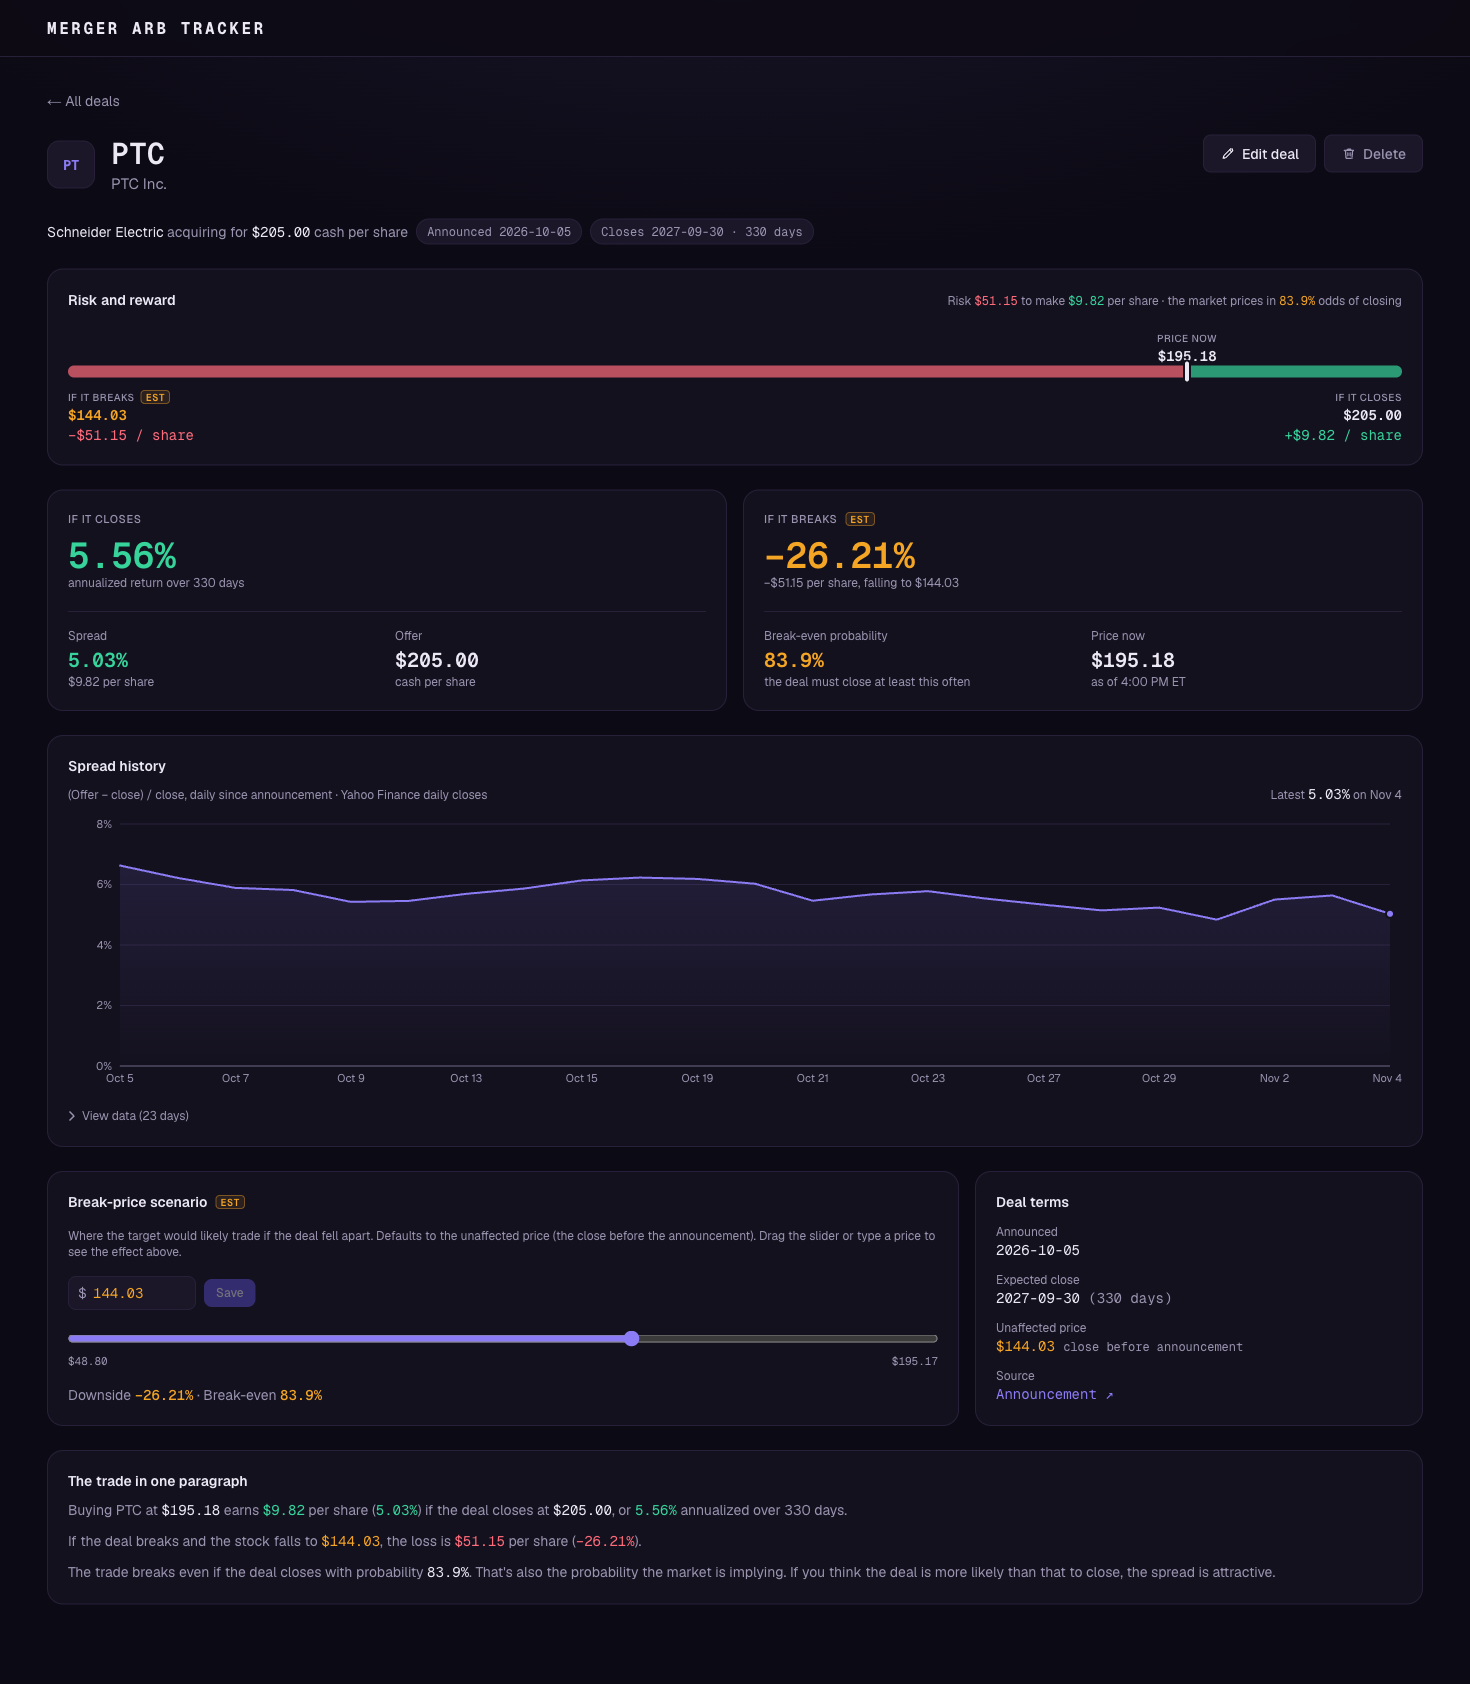
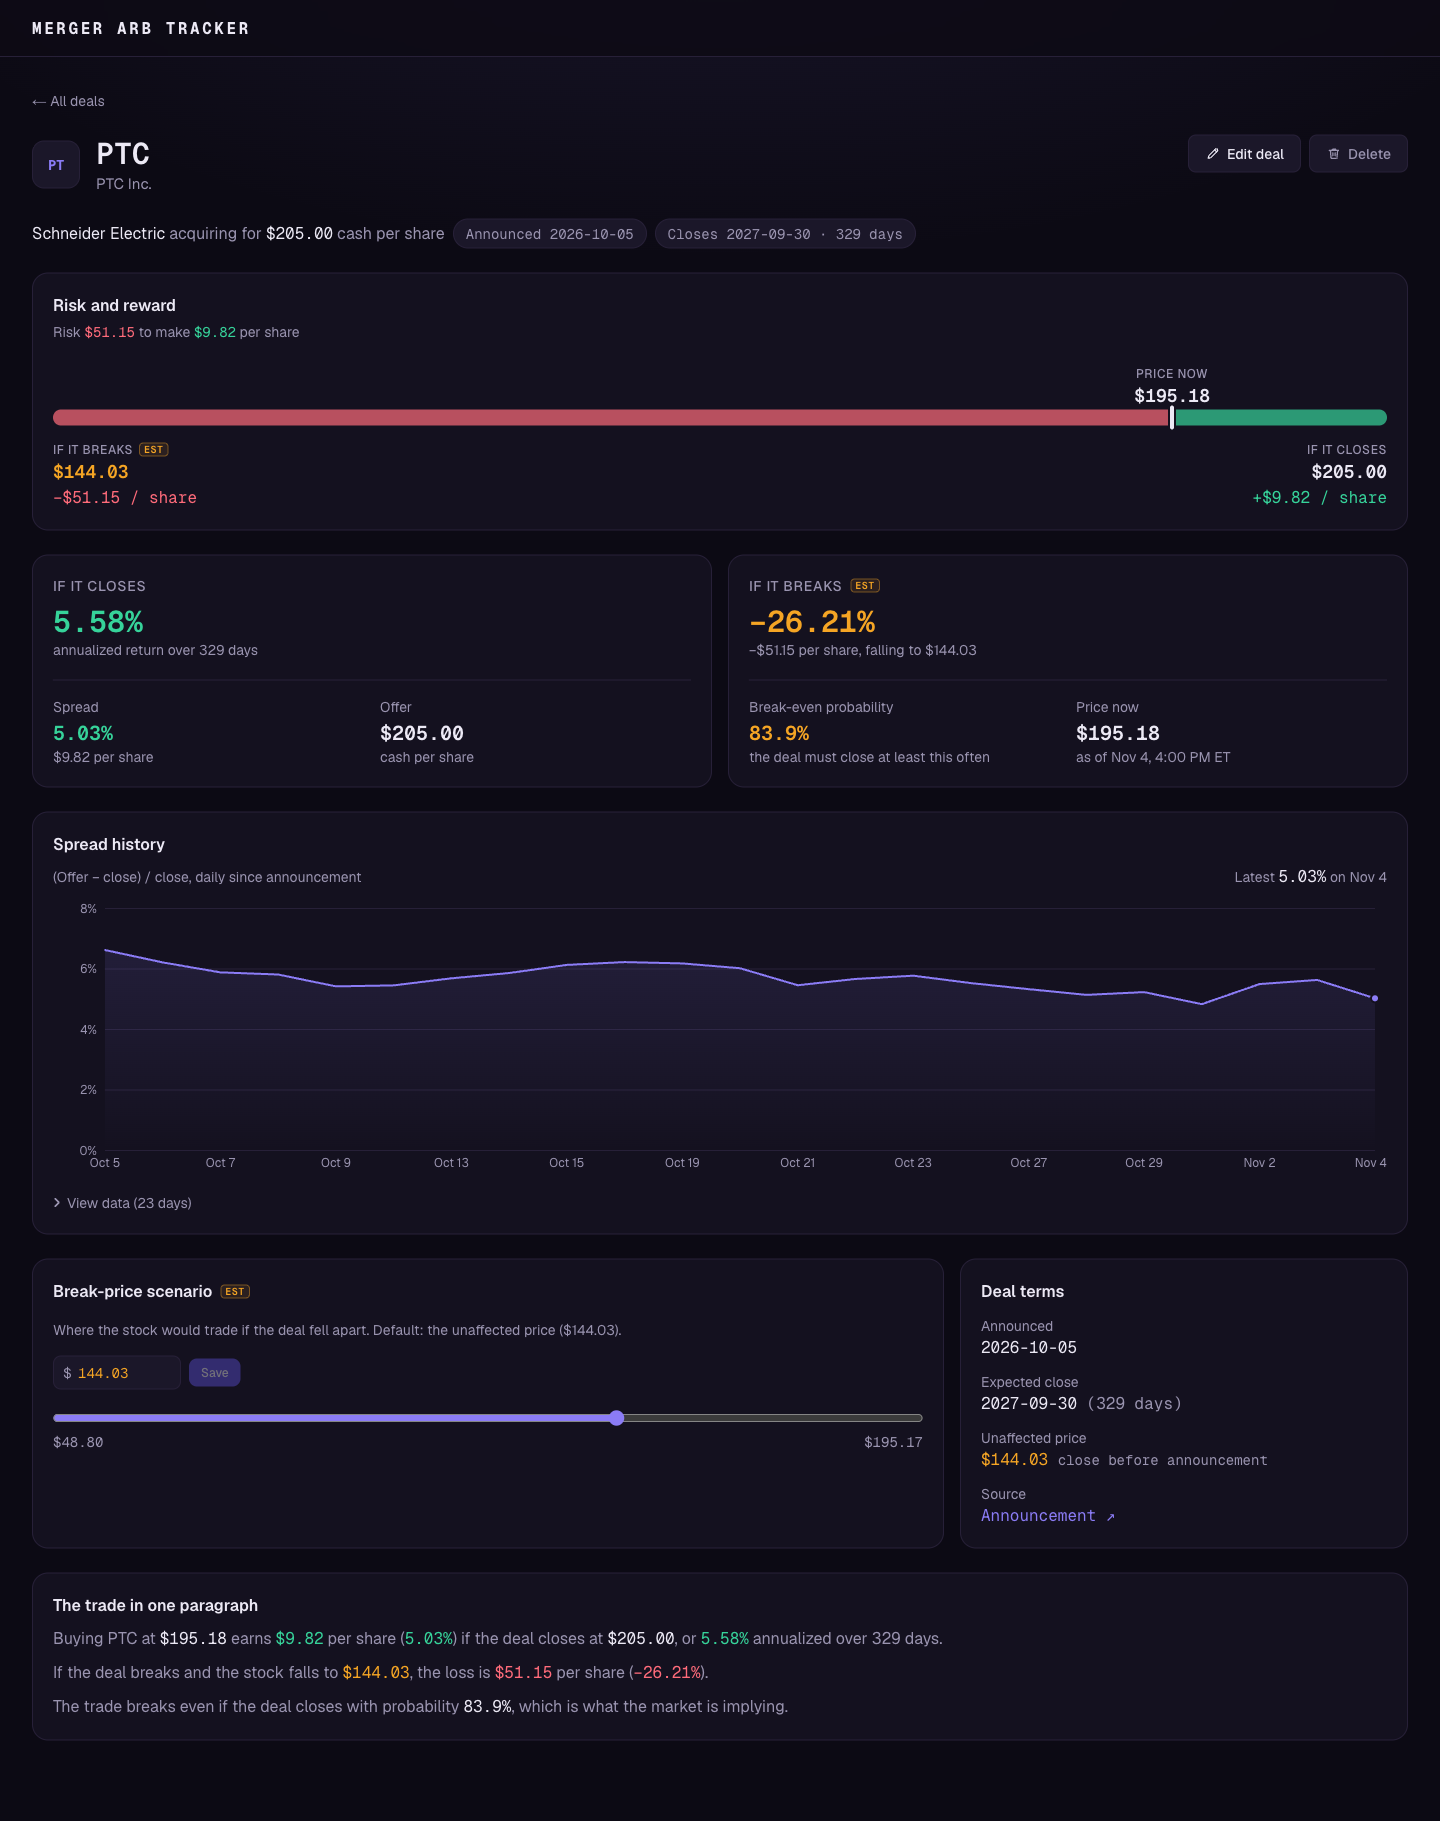
Deal detail: clearer type scale, trim scenario and summary text

diff --git a/components/DealDetail.tsx b/components/DealDetail.tsx
@@ -133,8 +133,8 @@ export function DealDetail({ id }: { id: string }) {
         </div>
       </div>
 
-      <div className="flex flex-wrap items-center gap-2 text-xs">
-        <span className="text-sm text-muted">
+      <div className="flex flex-wrap items-center gap-2 text-sm">
+        <span className="text-base text-muted">
           <span className="text-text">{deal.acquirerName}</span> acquiring for{" "}
           <span className="num text-text">{usd(deal.offerPrice)}</span> cash per share
         </span>
@@ -149,9 +149,9 @@ export function DealDetail({ id }: { id: string }) {
       {/* The two outcomes */}
       <div className="grid gap-4 md:grid-cols-2">
         <section className={cardClass("p-5")}>
-          <h2 className="text-[11px] font-medium uppercase tracking-wider text-muted">If it closes</h2>
-          <div className={`num mt-2 text-4xl font-semibold ${signClass(m.annualized)}`}>{pct(m.annualized)}</div>
-          <div className="text-xs text-muted">
+          <h2 className="text-sm font-medium uppercase tracking-wider text-muted">If it closes</h2>
+          <div className={`num mt-2 text-3xl font-semibold ${signClass(m.annualized)}`}>{pct(m.annualized)}</div>
+          <div className="text-sm text-muted">
             annualized return{m.daysToClose !== null && m.daysToClose > 0 ? ` over ${m.daysToClose} days` : " · past expected close"}
           </div>
           <dl className="mt-5 grid grid-cols-2 gap-4 border-t border-border pt-4">
@@ -161,11 +161,11 @@ export function DealDetail({ id }: { id: string }) {
         </section>
 
         <section className={cardClass("p-5")}>
-          <h2 className="flex items-center gap-2 text-[11px] font-medium uppercase tracking-wider text-muted">
+          <h2 className="flex items-center gap-2 text-sm font-medium uppercase tracking-wider text-muted">
             If it breaks {est && <Badge kind="est" title="Uses the estimated break price" />}
           </h2>
-          <div className={`num mt-2 text-4xl font-semibold ${est ? "text-est" : signClass(m.downside)}`}>{pct(m.downside)}</div>
-          <div className="text-xs text-muted">
+          <div className={`num mt-2 text-3xl font-semibold ${est ? "text-est" : signClass(m.downside)}`}>{pct(m.downside)}</div>
+          <div className="text-sm text-muted">
             {usd(m.downsideDollars)} per share{row.breakPrice !== null ? `, falling to ${usd(row.breakPrice)}` : ""}
           </div>
           <dl className="mt-5 grid grid-cols-2 gap-4 border-t border-border pt-4">
@@ -182,7 +182,7 @@ export function DealDetail({ id }: { id: string }) {
 
       {/* Spread history */}
       <section className={cardClass("space-y-2 p-5")}>
-        <h2 className="text-sm font-semibold">Spread history</h2>
+        <h2 className="text-base font-semibold">Spread history</h2>
         {closes === undefined ? (
           <p className="py-10 text-center text-sm text-muted">Loading price history…</p>
         ) : closes === null ? (
@@ -196,15 +196,12 @@ export function DealDetail({ id }: { id: string }) {
       <div className="grid gap-4 lg:grid-cols-3">
         <section className={cardClass("space-y-4 p-5 lg:col-span-2")}>
           <div className="flex items-center gap-2">
-            <h2 className="text-sm font-semibold">Break-price scenario</h2>
+            <h2 className="text-base font-semibold">Break-price scenario</h2>
             {est && <Badge kind="est" title="Estimated: unaffected close before the announcement" />}
           </div>
-          <p className="text-xs text-muted">
-            Where the target would likely trade if the deal fell apart. Defaults to the unaffected price (
-            {deal.unaffectedDate
-              ? `the close on ${deal.unaffectedDate}, before news of the deal leaked`
-              : "the close before the announcement"}
-            ). Drag the slider or type a price to see the effect above.
+          <p className="text-sm text-muted">
+            Where the stock would trade if the deal fell apart. Default: the unaffected price
+            {row.unaffected !== null ? ` (${usd(row.unaffected)})` : ""}.
           </p>
 
           <div className="flex flex-wrap items-center gap-2">
@@ -231,7 +228,7 @@ export function DealDetail({ id }: { id: string }) {
             </button>
             {(deal.breakPrice !== undefined || draft !== null) && (
               <button onClick={() => saveBreak(undefined)} className={buttonClass("secondary")}>
-                Use unaffected price{row.unaffected !== null ? ` (${usd(row.unaffected)})` : ""}
+                Reset to unaffected{row.unaffected !== null ? ` (${usd(row.unaffected)})` : ""}
               </button>
             )}
           </div>
@@ -249,28 +246,21 @@ export function DealDetail({ id }: { id: string }) {
               className="h-2 w-full cursor-pointer accent-accent disabled:cursor-not-allowed disabled:opacity-40"
             />
             {range && (
-              <div className="num mt-1 flex justify-between text-[11px] text-muted">
+              <div className="num mt-1 flex justify-between text-sm text-muted">
                 <span>{usd(range.min)}</span>
                 <span>{usd(range.max)}</span>
               </div>
             )}
           </div>
 
-          <p className="text-sm">
-            <span className="text-muted">Downside </span>
-            <span className={`num font-medium ${est ? "text-est" : signClass(m.downside)}`}>{pct(m.downside)}</span>
-            <span className="text-muted"> · Break-even </span>
-            <span className={`num font-medium ${est ? "text-est" : ""}`}>{breakEvenText(row)}</span>
-          </p>
-
-          {draftError && <p className="text-xs text-down">{draftError}</p>}
+          {draftError && <p className="text-sm text-down">{draftError}</p>}
           {usingDraft && draftValue !== deal.breakPrice && (
-            <p className="text-xs text-muted">Showing a what-if. Save to keep this break price.</p>
+            <p className="text-sm text-muted">What-if only. Save to keep it.</p>
           )}
         </section>
 
         <section className={cardClass("p-5")}>
-          <h2 className="text-sm font-semibold">Deal terms</h2>
+          <h2 className="text-base font-semibold">Deal terms</h2>
           <dl className="mt-3 space-y-3">
             <Term label="Announced" value={deal.announceDate} />
             <Term
@@ -286,8 +276,10 @@ export function DealDetail({ id }: { id: string }) {
               value={
                 <>
                   <span className="text-est">{usd(row.unaffected)}</span>{" "}
-                  <span className="text-xs text-muted">
-                    {deal.unaffectedDate ? `close on ${deal.unaffectedDate}` : "close before announcement"}
+                  <span className="text-sm text-muted">
+                    {deal.unaffectedDate
+                      ? `close on ${deal.unaffectedDate}, before news leaked`
+                      : "close before announcement"}
                   </span>
                 </>
               }
@@ -309,8 +301,8 @@ export function DealDetail({ id }: { id: string }) {
         </section>
       </div>
 
-      <section className={cardClass("space-y-2 p-5 text-sm")}>
-        <h2 className="text-sm font-semibold">The trade in one paragraph</h2>
+      <section className={cardClass("space-y-2 p-5 text-base")}>
+        <h2 className="text-base font-semibold">The trade in one paragraph</h2>
         <Scenario row={row} />
       </section>
 
@@ -373,8 +365,7 @@ function Scenario({ row }: { row: DealRow }) {
       {m.breakEven !== null && (
         <p>
           The trade breaks even if the deal closes with probability{" "}
-          <span className="num text-text">{pct(m.breakEven, "—", 1)}</span>. That&apos;s also the probability the
-          market is implying. If you think the deal is more likely than that to close, the spread is attractive.
+          <span className="num text-text">{pct(m.breakEven, "—", 1)}</span>, which is what the market is implying.
         </p>
       )}
     </div>
@@ -383,15 +374,15 @@ function Scenario({ row }: { row: DealRow }) {
 
 function Chip({ children, tone = "" }: { children: React.ReactNode; tone?: string }) {
   return (
-    <span className={`rounded-full border border-border bg-panel-2 px-2.5 py-1 num text-muted ${tone}`}>{children}</span>
+    <span className={`rounded-full border border-border bg-panel-2 px-3 py-1 num text-muted ${tone}`}>{children}</span>
   );
 }
 
 function Term({ label, value }: { label: string; value: React.ReactNode }) {
   return (
     <div>
-      <dt className="text-xs text-muted">{label}</dt>
-      <dd className="num text-sm">{value}</dd>
+      <dt className="text-sm text-muted">{label}</dt>
+      <dd className="num text-base">{value}</dd>
     </div>
   );
 }
@@ -399,9 +390,9 @@ function Term({ label, value }: { label: string; value: React.ReactNode }) {
 function Metric({ label, value, sub, valueClass = "" }: { label: string; value: string; sub: string; valueClass?: string }) {
   return (
     <div>
-      <dt className="text-xs text-muted">{label}</dt>
+      <dt className="text-sm text-muted">{label}</dt>
       <dd className={`num mt-0.5 text-xl font-semibold ${valueClass}`}>{value}</dd>
-      <div className="text-xs text-muted">{sub}</div>
+      <div className="text-sm text-muted">{sub}</div>
     </div>
   );
 }

diff --git a/components/PayoffLadder.tsx b/components/PayoffLadder.tsx
@@ -1,5 +1,5 @@
 import type { DealRow } from "@/lib/dealRow";
-import { pct, usd } from "@/lib/format";
+import { usd } from "@/lib/format";
 import { Badge } from "./Badge";
 import { cardClass } from "./ui";
 
@@ -34,42 +34,42 @@ export function PayoffLadder({ row }: { row: DealRow }) {
         aria-label={`Payoff ladder. Break price ${usd(breakPrice)}, current price ${usd(price)}, offer ${usd(deal.offerPrice)}. You lose ${usd(loss)} per share if the deal breaks and make ${usd(m.spreadDollars)} per share if it closes.`}
       >
         {/* Current price, above the marker */}
-        <div className="relative h-11">
+        <div className="relative h-14">
           {/* Centered on the marker, but never closer than 48px to either end of the bar. */}
           <div
             className="absolute bottom-0 -translate-x-1/2 whitespace-nowrap text-center"
             style={{ left: `clamp(48px, ${pos}%, calc(100% - 48px))` }}
           >
-            <div className="text-[10px] font-medium uppercase tracking-wider text-muted">Price now</div>
-            <div className="num text-sm font-semibold">{usd(price)}</div>
+            <div className="text-xs font-medium uppercase tracking-wider text-muted">Price now</div>
+            <div className="num text-lg font-semibold">{usd(price)}</div>
           </div>
         </div>
 
         {/* The bar */}
-        <div className="relative h-3">
+        <div className="relative h-4">
           <div className="flex h-full overflow-hidden rounded-full">
             <div className="bg-down/70" style={{ width: `${pos}%` }} />
             <div className="flex-1 bg-up/70" />
           </div>
           <div
-            className="absolute top-1/2 h-5 w-1 -translate-x-1/2 -translate-y-1/2 rounded-full bg-text shadow-[0_0_0_2px_var(--panel)]"
+            className="absolute top-1/2 h-6 w-1 -translate-x-1/2 -translate-y-1/2 rounded-full bg-text shadow-[0_0_0_2px_var(--panel)]"
             style={{ left: `${pos}%` }}
           />
         </div>
 
         {/* Both ends */}
-        <div className="mt-3 flex justify-between gap-4">
+        <div className="mt-4 flex justify-between gap-4">
           <div>
-            <div className="flex items-center gap-1.5 text-[10px] font-medium uppercase tracking-wider text-muted">
+            <div className="flex items-center gap-1.5 text-xs font-medium uppercase tracking-wider text-muted">
               If it breaks {est && <Badge kind="est" title="Uses the estimated break price" />}
             </div>
-            <div className={`num text-sm font-semibold ${est ? "text-est" : ""}`}>{usd(breakPrice)}</div>
-            <div className="num text-sm text-down">−{usd(loss)} / share</div>
+            <div className={`num text-lg font-semibold ${est ? "text-est" : ""}`}>{usd(breakPrice)}</div>
+            <div className="num text-base text-down">−{usd(loss)} / share</div>
           </div>
           <div className="text-right">
-            <div className="text-[10px] font-medium uppercase tracking-wider text-muted">If it closes</div>
-            <div className="num text-sm font-semibold">{usd(deal.offerPrice)}</div>
-            <div className="num text-sm text-up">+{usd(m.spreadDollars)} / share</div>
+            <div className="text-xs font-medium uppercase tracking-wider text-muted">If it closes</div>
+            <div className="num text-lg font-semibold">{usd(deal.offerPrice)}</div>
+            <div className="num text-base text-up">+{usd(m.spreadDollars)} / share</div>
           </div>
         </div>
       </div>
@@ -78,16 +78,13 @@ export function PayoffLadder({ row }: { row: DealRow }) {
 
   return (
     <section className={cardClass("p-5")}>
-      <div className="flex flex-wrap items-baseline justify-between gap-2">
-        <h2 className="text-sm font-semibold">Risk and reward</h2>
-        {m.breakEven !== null && m.downsideDollars !== null && m.spreadDollars !== null && (
-          <p className="text-xs text-muted">
-            Risk <span className="num text-down">{usd(Math.abs(m.downsideDollars))}</span> to make{" "}
-            <span className="num text-up">{usd(m.spreadDollars)}</span> per share · the market prices in{" "}
-            <span className={`num ${est ? "text-est" : "text-text"}`}>{pct(m.breakEven, "—", 1)}</span> odds of closing
-          </p>
-        )}
-      </div>
+      <h2 className="text-base font-semibold">Risk and reward</h2>
+      {m.breakEven !== null && m.downsideDollars !== null && m.spreadDollars !== null && (
+        <p className="mt-1 text-sm text-muted">
+          Risk <span className="num text-down">{usd(Math.abs(m.downsideDollars))}</span> to make{" "}
+          <span className="num text-up">{usd(m.spreadDollars)}</span> per share
+        </p>
+      )}
       <div className="mt-3">{body}</div>
     </section>
   );

diff --git a/components/SpreadChart.tsx b/components/SpreadChart.tsx
@@ -68,11 +68,9 @@ export function SpreadChart({ points }: { points: SpreadPoint[] }) {
   return (
     <div className="space-y-3">
       <div className="flex flex-wrap items-baseline justify-between gap-2">
-        <div className="text-xs text-muted">
-          (Offer − close) / close, daily since announcement · Yahoo Finance daily closes
-        </div>
-        <div className="text-xs text-muted">
-          Latest <span className="num text-sm text-text">{pct(last.spreadPct)}</span> on {shortDate(last.date)}
+        <div className="text-sm text-muted">(Offer − close) / close, daily since announcement</div>
+        <div className="text-sm text-muted">
+          Latest <span className="num text-base text-text">{pct(last.spreadPct)}</span> on {shortDate(last.date)}
         </div>
       </div>
 
@@ -94,7 +92,7 @@ export function SpreadChart({ points }: { points: SpreadPoint[] }) {
           dataKey="date"
           tickFormatter={shortDate}
           minTickGap={40}
-          tick={{ fill: AXIS_TEXT, fontSize: 11 }}
+          tick={{ fill: AXIS_TEXT, fontSize: 12 }}
           axisLine={{ stroke: GRID }}
           tickLine={false}
         />
@@ -103,7 +101,7 @@ export function SpreadChart({ points }: { points: SpreadPoint[] }) {
           ticks={ticks}
           interval={0}
           tickFormatter={(v: number) => pct(v, "", digits)}
-          tick={{ fill: AXIS_TEXT, fontSize: 11 }}
+          tick={{ fill: AXIS_TEXT, fontSize: 12 }}
           axisLine={false}
           tickLine={false}
           width={52}
@@ -133,7 +131,7 @@ export function SpreadChart({ points }: { points: SpreadPoint[] }) {
       </AreaChart>
 
       {/* Table view: every value is reachable without hovering */}
-      <details className="group text-xs">
+      <details className="group text-sm">
         <summary className="inline-flex cursor-pointer list-none items-center gap-1.5 text-muted transition-colors hover:text-text [&::-webkit-details-marker]:hidden">
           <svg aria-hidden viewBox="0 0 8 12" className="h-3 w-2 transition-transform group-open:rotate-90" fill="none" stroke="currentColor" strokeWidth="1.6" strokeLinecap="round" strokeLinejoin="round">
             <path d="m2 2 4 4-4 4" />
@@ -142,7 +140,7 @@ export function SpreadChart({ points }: { points: SpreadPoint[] }) {
         </summary>
         <div className="mt-2 max-h-64 overflow-y-auto rounded-xl border border-border">
           <table className="w-full">
-            <thead className="sticky top-0 bg-panel text-[11px] uppercase tracking-wider text-muted">
+            <thead className="sticky top-0 bg-panel text-xs uppercase tracking-wider text-muted">
               <tr>
                 <th className="px-3 py-1.5 text-left font-medium">Date</th>
                 <th className="px-3 py-1.5 text-right font-medium">Close</th>
